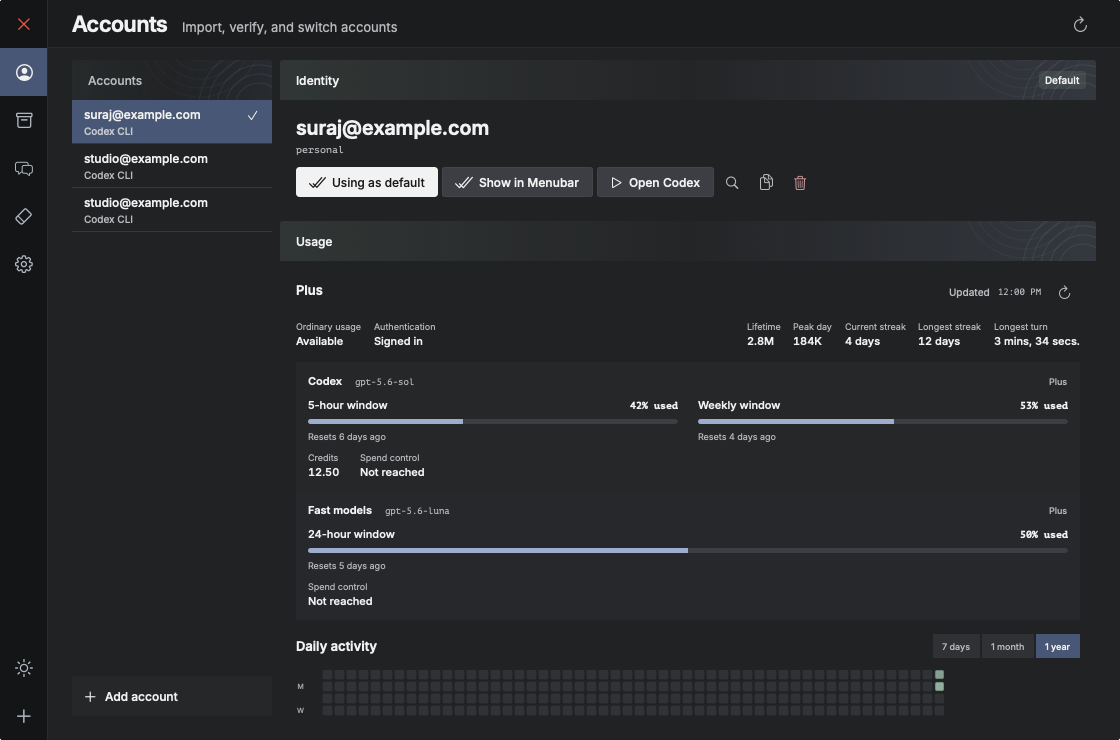
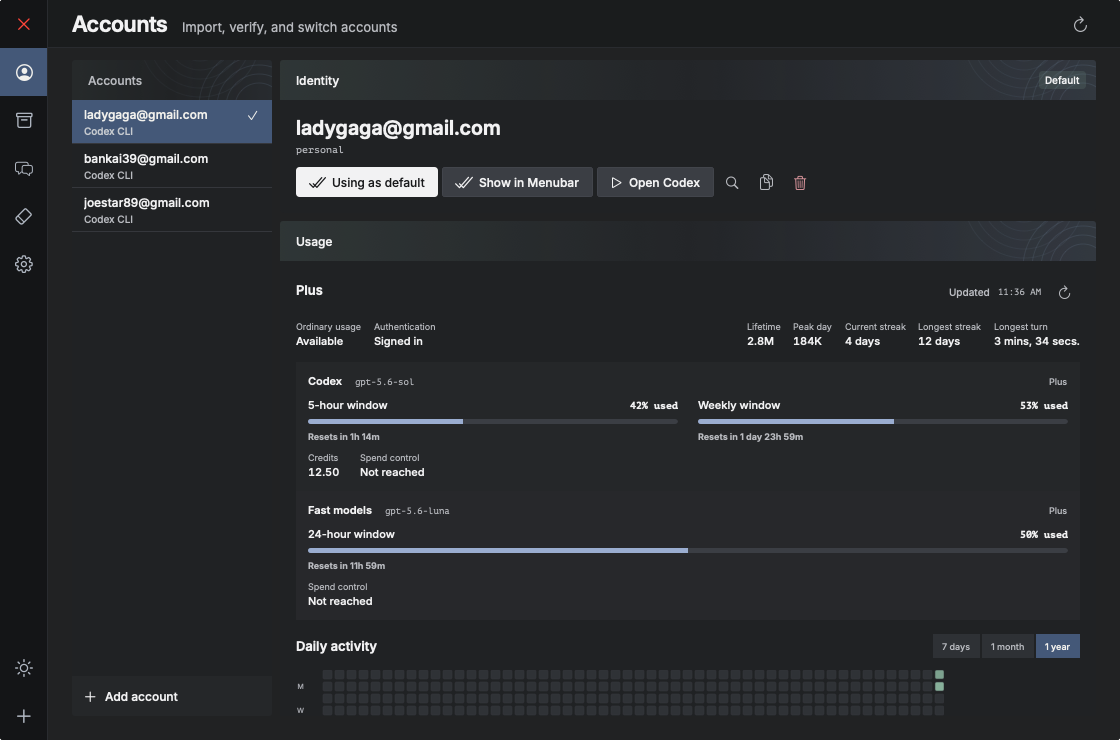
Show precise reset times and refresh Preview images

diff --git a/packages/mac-gui/Sources/AIManagerMacGUI/AccountViewModel.swift b/packages/mac-gui/Sources/AIManagerMacGUI/AccountViewModel.swift
@@ -1689,13 +1689,14 @@ private enum DemoData {
     }
 
     static let accounts = [
-        account(id: "7A08CA5E-F528-4E45-B730-DAF68B0A3133", email: "suraj@example.com", workspace: "personal", state: .verifiedWithCodex, detail: "Codex CLI account check completed at 10:15 AM."),
-        account(id: "5EA89BE0-D9A1-4727-983B-91640279C396", email: "studio@example.com", workspace: "design-team", state: .needsSignIn, detail: "Sign in before this account can launch Codex."),
-        account(id: "A9FC9B4F-94AC-4645-AF6C-617546DBA966", email: "studio@example.com", workspace: "research-team", state: .imported, detail: "Imported locally. The account check has not run."),
+        account(id: "7A08CA5E-F528-4E45-B730-DAF68B0A3133", email: "ladygaga@gmail.com", workspace: "personal", state: .verifiedWithCodex, detail: "Codex CLI account check completed at 10:15 AM."),
+        account(id: "5EA89BE0-D9A1-4727-983B-91640279C396", email: "bankai39@gmail.com", workspace: "design-team", state: .needsSignIn, detail: "Sign in before this account can launch Codex."),
+        account(id: "A9FC9B4F-94AC-4645-AF6C-617546DBA966", email: "joestar89@gmail.com", workspace: "research-team", state: .imported, detail: "Imported locally. The account check has not run."),
     ]
 
     static func usage(account: AccountRecord, offset: Int) -> CodexAccountUsageSnapshot {
         let used = [42, 68, 17][offset % 3]
+        let resetNow = Date()
         return CodexAccountUsageSnapshot(
             account: CodexAccountDetailsSnapshot(
                 kind: "chatgpt",
@@ -1714,12 +1715,12 @@ private enum DemoData {
                     primary: CodexRateLimitWindowSnapshot(
                         usedPercent: used,
                         windowDurationMinutes: 300,
-                        resetsAt: now.addingTimeInterval(Double(75 + offset * 20) * 60)
+                        resetsAt: resetNow.addingTimeInterval(Double(75 + offset * 20) * 60)
                     ),
                     secondary: CodexRateLimitWindowSnapshot(
                         usedPercent: min(used + 11, 100),
                         windowDurationMinutes: 10_080,
-                        resetsAt: now.addingTimeInterval(Double(2 + offset) * 86_400)
+                        resetsAt: resetNow.addingTimeInterval(Double(2 + offset) * 86_400)
                     ),
                     credits: CodexCreditsSnapshot(
                         hasCredits: true,
@@ -1737,7 +1738,7 @@ private enum DemoData {
                         primary: CodexRateLimitWindowSnapshot(
                             usedPercent: min(used + 8, 100),
                             windowDurationMinutes: 1_440,
-                            resetsAt: now.addingTimeInterval(Double(12 + offset) * 3_600)
+                            resetsAt: resetNow.addingTimeInterval(Double(12 + offset) * 3_600)
                         ),
                         secondary: nil,
                         credits: nil,
@@ -1757,13 +1758,13 @@ private enum DemoData {
                 CodexDailyUsageSnapshot(startDate: "2026-09-13", tokens: Int64(31_000 + offset * 4_000)),
                 CodexDailyUsageSnapshot(startDate: "2026-09-12", tokens: Int64(18_000 + offset * 3_000)),
             ],
-            fetchedAt: now.addingTimeInterval(Double(-offset * 480))
+            fetchedAt: resetNow.addingTimeInterval(Double(-offset * 480))
         )
     }
 
     static let discoveries = [
-        source(id: "default-home", path: "/Demo/Sources/.codex", email: "new@example.com", workspace: "personal", settings: ["config.toml", "AGENTS.md", "rules", "skills"], active: 248, archived: 19),
-        source(id: "orca-team", path: "/Demo/Sources/Orca/team", email: "studio@example.com", workspace: "research-team", settings: ["config.toml", "rules", "skills", "hooks.json"], active: 291, archived: 9),
+        source(id: "default-home", path: "/Demo/Sources/.codex", email: "ladygaga@gmail.com", workspace: "personal", settings: ["config.toml", "AGENTS.md", "rules", "skills"], active: 248, archived: 19),
+        source(id: "orca-team", path: "/Demo/Sources/Orca/team", email: "bankai39@gmail.com", workspace: "research-team", settings: ["config.toml", "rules", "skills", "hooks.json"], active: 291, archived: 9),
         DiscoveredSource(
             id: "needs-sign-in",
             path: URL(fileURLWithPath: "/Demo/Sources/Needs Sign-in", isDirectory: true),
@@ -1784,7 +1785,7 @@ private enum DemoData {
         ),
     ]
 
-    static let manualSource = source(id: "chosen-home", path: "/Demo/Sources/Chosen Home", email: "chosen@example.com", workspace: "freelance", settings: ["config.toml", "AGENTS.md"], active: 37, archived: 2)
+    static let manualSource = source(id: "chosen-home", path: "/Demo/Sources/Chosen Home", email: "joestar89@gmail.com", workspace: "freelance", settings: ["config.toml", "AGENTS.md"], active: 37, archived: 2)
 
     static func importPlan(source: DiscoveredSource, identity: AccountIdentity, mode: ImportMode, paths: ManagerPaths) -> ImportPlan {
         let id: UUID

diff --git a/packages/mac-gui/Sources/AIManagerMacGUI/MenuBarPopover.swift b/packages/mac-gui/Sources/AIManagerMacGUI/MenuBarPopover.swift
@@ -5,21 +5,21 @@ import SwiftUI
 struct MenuBarUsageSnapshot: Equatable, Sendable {
   let usedPercentage: Int?
   let secondaryUsedPercentage: Int?
-  let resetDescription: String?
-  let secondaryResetDescription: String?
+  let resetsAt: Date?
+  let secondaryResetsAt: Date?
   let fetchedAt: Date?
 
   init(
     usedPercentage: Int?,
     secondaryUsedPercentage: Int? = nil,
-    resetDescription: String? = nil,
-    secondaryResetDescription: String? = nil,
+    resetsAt: Date? = nil,
+    secondaryResetsAt: Date? = nil,
     fetchedAt: Date? = nil
   ) {
     self.usedPercentage = usedPercentage.map { min(max($0, 0), 100) }
     self.secondaryUsedPercentage = secondaryUsedPercentage.map { min(max($0, 0), 100) }
-    self.resetDescription = resetDescription
-    self.secondaryResetDescription = secondaryResetDescription
+    self.resetsAt = resetsAt
+    self.secondaryResetsAt = secondaryResetsAt
     self.fetchedAt = fetchedAt
   }
 
@@ -31,8 +31,8 @@ struct MenuBarUsageSnapshot: Equatable, Sendable {
     self.init(
       usedPercentage: session?.usedPercent,
       secondaryUsedPercentage: weekly?.usedPercent,
-      resetDescription: session?.resetsAt.map { "resets \($0.formatted(.relative(presentation: .named)))" },
-      secondaryResetDescription: weekly?.resetsAt.map { "resets \($0.formatted(.relative(presentation: .named)))" },
+      resetsAt: session?.resetsAt,
+      secondaryResetsAt: weekly?.resetsAt,
       fetchedAt: fetchedAt)
   }
 
@@ -413,12 +413,12 @@ private struct MenuBarAccountRow: View {
           if let percentage = usage.usedPercentage {
             MenuBarQuotaRow(
               label: "Session", percentage: percentage,
-              reset: usage.resetDescription, palette: palette)
+              reset: usage.resetsAt, palette: palette)
           }
           if let percentage = usage.secondaryUsedPercentage {
             MenuBarQuotaRow(
               label: "Weekly", percentage: percentage,
-              reset: usage.secondaryResetDescription, palette: palette)
+              reset: usage.secondaryResetsAt, palette: palette)
           }
         }
         .padding(.horizontal, 11)
@@ -482,7 +482,7 @@ private struct MenuBarAccountRow: View {
 private struct MenuBarQuotaRow: View {
   let label: String
   let percentage: Int
-  let reset: String?
+  let reset: Date?
   let palette: MenuBarPalette
   @Environment(\.accessibilityReduceMotion) private var reduceMotion
 
@@ -506,10 +506,14 @@ private struct MenuBarQuotaRow: View {
           .font(AIMTheme.sans(10, weight: .medium))
           .foregroundStyle(palette.ink)
         Spacer(minLength: 0)
-        Text(reset ?? "")
-          .font(AIMTheme.sans(9))
-          .foregroundStyle(palette.muted)
-          .lineLimit(1)
+        if let reset {
+          TimelineView(.periodic(from: .now, by: 60)) { context in
+            Text(UsageResetLabel.text(until: reset, now: context.date))
+              .font(AIMTheme.sans(9, weight: .bold))
+              .foregroundStyle(palette.muted)
+              .lineLimit(1)
+          }
+        }
       }
     }
     .frame(height: MenuBarPopover.quotaRowHeight)
@@ -560,23 +564,25 @@ enum MenuBarPopoverPreviewData {
     accounts: [
       MenuBarAccountSnapshot(
         id: UUID(uuidString: "66D91DF8-056C-4DD0-AF97-EAF45D74A8D2")!,
-        identity: "suraj@example.test", detail: "Codex CLI · Personal",
+        identity: "ladygaga@gmail.com", detail: "Codex CLI · Personal",
         isVerified: true, isActive: true,
         usage: MenuBarUsageSnapshot(
           usedPercentage: 42, secondaryUsedPercentage: 68,
-          resetDescription: "Resets in 2h", secondaryResetDescription: "Monday",
+          resetsAt: Date().addingTimeInterval(2 * 3_600),
+          secondaryResetsAt: Date().addingTimeInterval(2 * 86_400),
           fetchedAt: Date().addingTimeInterval(-120))),
       MenuBarAccountSnapshot(
         id: UUID(uuidString: "15431467-BF10-4BCB-9300-C785336CB1D1")!,
-        identity: "studio@example.test", detail: "Codex CLI · Studio",
+        identity: "bankai39@gmail.com", detail: "Codex CLI · Studio",
         isVerified: true, isActive: false,
         usage: MenuBarUsageSnapshot(
           usedPercentage: 18, secondaryUsedPercentage: 37,
-          resetDescription: "Resets tomorrow",
-          secondaryResetDescription: "Monday", fetchedAt: Date().addingTimeInterval(-480))),
+          resetsAt: Date().addingTimeInterval(75 * 60),
+          secondaryResetsAt: Date().addingTimeInterval(4 * 86_400),
+          fetchedAt: Date().addingTimeInterval(-480))),
       MenuBarAccountSnapshot(
         id: UUID(uuidString: "DB9AB65A-F894-426D-8A16-86772A8F054D")!,
-        identity: "needs-sign-in@example.test", detail: "Codex CLI · Personal",
+        identity: "joestar89@gmail.com", detail: "Codex CLI · Personal",
         isVerified: false, isActive: false),
     ])
 }

diff --git a/packages/mac-gui/Tests/NativeUIContract.swift b/packages/mac-gui/Tests/NativeUIContract.swift
@@ -428,6 +428,19 @@ enum AIManagerNativeContract {
       secondary: nil, credits: nil, spendControlReached: nil), fetchedAt: activityEnd)
     expect(weeklyPrimary?.usedPercentage == nil && weeklyPrimary?.secondaryUsedPercentage == 1,
       "A weekly-only primary response is incorrectly labelled as five-hour usage")
+    let resetNow = Date(timeIntervalSince1970: 0)
+    expect(UsageResetLabel.text(until: resetNow.addingTimeInterval(2 * 86_400 - 60), now: resetNow)
+      == "Resets in 1 day 23h 59m", "Reset countdown rounds almost two days up")
+    expect(UsageResetLabel.text(until: resetNow.addingTimeInterval(2 * 86_400), now: resetNow)
+      == "Resets in 2 days 0h 0m", "Reset countdown drops exact days")
+    expect(UsageResetLabel.text(until: resetNow.addingTimeInterval(86_400 + 2 * 3_600 + 3 * 60), now: resetNow)
+      == "Resets in 1 day 2h 3m", "Reset countdown drops hours or minutes")
+    expect(UsageResetLabel.text(until: resetNow.addingTimeInterval(3_600), now: resetNow)
+      == "Resets in 1h 0m", "Reset countdown has the wrong hour boundary")
+    expect(UsageResetLabel.text(until: resetNow.addingTimeInterval(59), now: resetNow)
+      == "Resets in <1m", "Reset countdown says zero minutes before reset")
+    expect(UsageResetLabel.text(until: resetNow, now: resetNow) == "Resets now",
+      "Reset countdown keeps counting after reset")
     failures.append(contentsOf: activityCalendarRenderFailures())
     failures.append(contentsOf: menuBarUsagePreferenceFailures())
     return failures
@@ -695,7 +708,7 @@ enum AIManagerNativeContract {
     expect(snapshot.accounts.first?.isActive == true, "Preview menu snapshot lacks an active account")
     expect(snapshot.accounts.contains(where: { !$0.isVerified }), "Preview menu snapshot lacks an unavailable row")
     expect(snapshot.accounts.compactMap(\.usage).contains(where: {
-      $0.resetDescription != nil && $0.fetchedAt != nil
+      $0.resetsAt != nil && $0.fetchedAt != nil
     }), "Preview menu snapshot lacks cached reset details")
 
     let controller = AIManagerStatusItemController(

diff --git a/packages/mac-gui/Sources/AIManagerMacGUI/AIManagerDesign.swift b/packages/mac-gui/Sources/AIManagerMacGUI/AIManagerDesign.swift
@@ -33,6 +33,21 @@ enum AIMTranslucency {
   }
 }
 
+enum UsageResetLabel {
+  static func text(until reset: Date, now: Date = Date()) -> String {
+    let minutes = Int(max(0, reset.timeIntervalSince(now)) / 60)
+    if minutes == 0 { return reset > now ? "Resets in <1m" : "Resets now" }
+    let days = minutes / 1_440
+    let hours = (minutes % 1_440) / 60
+    let remainingMinutes = minutes % 60
+    if days > 0 {
+      return "Resets in \(days) \(days == 1 ? "day" : "days") \(hours)h \(remainingMinutes)m"
+    }
+    if hours > 0 { return "Resets in \(hours)h \(remainingMinutes)m" }
+    return "Resets in \(remainingMinutes)m"
+  }
+}
+
 private struct AIMAdaptiveColor: ShapeStyle, Hashable {
   let light: UInt32
   let dark: UInt32
@@ -150,6 +165,7 @@ enum AIMTheme {
     case regular = "Regular"
     case medium = "Medium"
     case semibold = "SemiBold"
+    case bold = "Bold"
   }
 
   static func sans(_ size: CGFloat, weight: FontWeight = .regular) -> Font {
@@ -247,6 +263,7 @@ private extension AIMTheme.FontWeight {
     case .regular: .regular
     case .medium: .medium
     case .semibold: .semibold
+    case .bold: .bold
     }
   }
 }

diff --git a/packages/mac-gui/Sources/AIManagerMacGUI/AccountWindow.swift b/packages/mac-gui/Sources/AIManagerMacGUI/AccountWindow.swift
@@ -1668,8 +1668,11 @@ private struct UsageMeter: View {
       }
       .frame(height: 5)
       if let reset = window.resetsAt {
-        Text("Resets \(reset.formatted(.relative(presentation: .named)))")
-          .font(AIMTheme.sans(9)).foregroundStyle(AIMTheme.muted)
+        TimelineView(.periodic(from: .now, by: 60)) { context in
+          Text(UsageResetLabel.text(until: reset, now: context.date))
+            .font(AIMTheme.sans(9, weight: .bold))
+            .foregroundStyle(AIMTheme.muted)
+        }
       }
     }
     .frame(maxWidth: .infinity)

diff --git a/docs/specs/product.md b/docs/specs/product.md
@@ -195,7 +195,9 @@ usage is enabled and cached, the card expands to show Session followed by Weekly
 Each 40-point quota row places its name above a full-width four-point progress bar,
 then its used percentage on the left and reset description on the right. Use 13-point
 spacing between limits, four-point top and ten-point bottom usage insets. Account names
-and quota labels are 11 points, used percentages ten, and reset descriptions nine.
+and quota labels are 11 points, used percentages ten, and bold reset descriptions nine.
+Show reset time as a live countdown in days, hours, and minutes, such as
+"Resets in 1 day 23h 59m", in both the Menubar and main account view.
 The whole popover, including cards and footer, is translucent over
 one native macOS backdrop blur. Card tints stay translucent; text and icons remain opaque.
 Use the existing native visual-effect wrapper and cached provider glyphs, without per-card

diff --git a/goals.md b/goals.md
@@ -16,6 +16,18 @@ verification evidence.
   workflows, dependency updates, and accepted design/research records. Move
   issue-template redaction guidance into `SECURITY.md`.
 
+### Reset countdown and Preview names (2026-09-19)
+
+- [x] Show a precise, bold reset countdown in Menubar and account usage, updating
+  while either view remains open.
+- [x] Replace generic Preview email names and regenerate the README screenshots
+  from synthetic accounts.
+
+The shared formatter covers day/hour/minute boundaries and elapsed resets in
+the native contract. System, Light, and Dark contracts pass, as do Preview and
+production model checks. The README account and Menubar PNGs were regenerated
+from isolated Preview homes and visually checked with the new names and countdown.
+
 ### README visual refresh (2026-09-19)
 
 - [x] Replace long product prose with a short account-switching overview,
